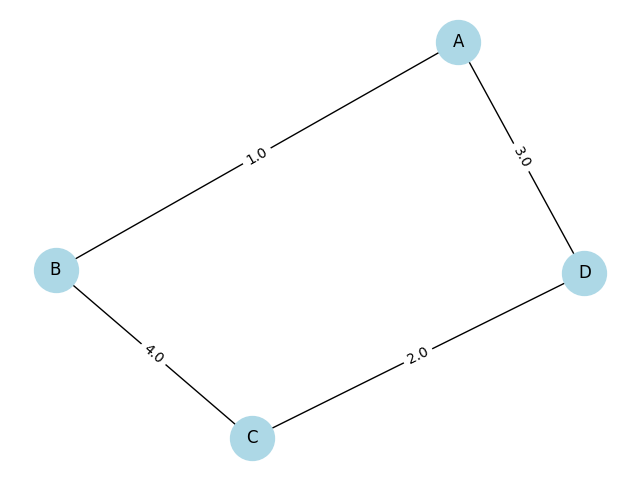
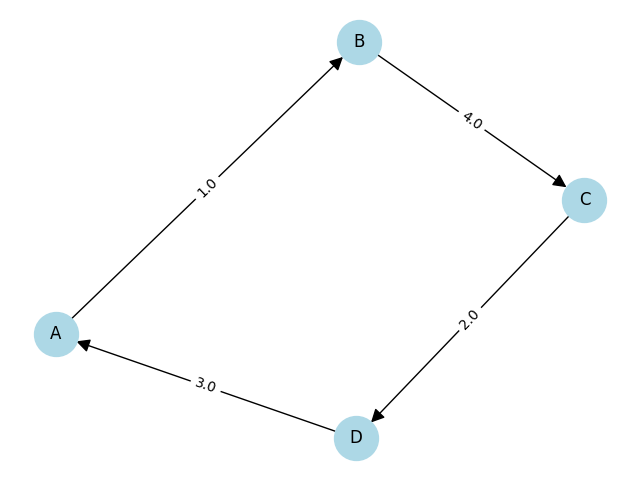
isso ai

diff --git a/codigobase.py b/codigobase.py
@@ -2,10 +2,11 @@ import networkx as nx
 import matplotlib.pyplot as plt
 import os
 
+
 def ler_grafo_arquivo(nome_arquivo):
     """
     Lê um arquivo de texto e cria um grafo/dígrafo (ponderado ou não).
-    
+
     Formato esperado:
     1ª linha: [G|D] [N|W]
         G = Grafo não direcionado
@@ -33,7 +34,7 @@ def ler_grafo_arquivo(nome_arquivo):
         else:
             raise ValueError("Primeiro caractere deve ser 'G' ou 'D'.")
 
-        ponderado = (peso == "W")
+        ponderado = peso == "W"
 
         # Leitura das arestas
         for linha in linhas[1:]:
@@ -45,13 +46,17 @@ def ler_grafo_arquivo(nome_arquivo):
                 adicionar_aresta(G, u, v, w, ponderado)
             else:
                 if len(partes) != 2:
-                    raise ValueError("Esperado formato 'u v' para grafos não ponderados.")
+                    raise ValueError(
+                        "Esperado formato 'u v' para grafos não ponderados."
+                    )
                 u, v = partes
                 adicionar_aresta(G, u, v, ponderado)  # peso padrão 1
 
-        print(f"Grafo criado ({'dígrafo' if tipo=='D' else 'grafo'}, "
-              f"{'ponderado' if ponderado else 'não ponderado'}) com "
-              f"{G.number_of_nodes()} vértices e {G.number_of_edges()} arestas.")
+        print(
+            f"Grafo criado ({'dígrafo' if tipo == 'D' else 'grafo'}, "
+            f"{'ponderado' if ponderado else 'não ponderado'}) com "
+            f"{G.number_of_nodes()} vértices e {G.number_of_edges()} arestas."
+        )
         return G, ponderado
 
     except FileNotFoundError:
@@ -81,24 +86,30 @@ def adicionar_aresta(G, u, v, w=1, ponderado=False):
 def visualizar_grafo(G, ponderado=False):
     """Desenha o grafo (ou dígrafo) com ou sem pesos."""
     pos = nx.spring_layout(G)
-    nx.draw(G, pos, with_labels=True, node_color='lightblue',
-            edge_color='black', node_size=1000, font_size=12,
-            arrows=isinstance(G, nx.DiGraph), arrowsize=20)
+    nx.draw(
+        G,
+        pos,
+        with_labels=True,
+        node_color="lightblue",
+        edge_color="black",
+        node_size=1000,
+        font_size=12,
+        arrows=isinstance(G, nx.DiGraph),
+        arrowsize=20,
+    )
 
     # Se for ponderado, mostrar pesos
     if ponderado:
-        labels = nx.get_edge_attributes(G, 'weight')
+        labels = nx.get_edge_attributes(G, "weight")
         nx.draw_networkx_edge_labels(G, pos, edge_labels=labels)
 
     plt.title("Visualização do Grafo")
     plt.savefig("visualizacao_grafo.png")
-    plt.close()
 
 
-
-def graph_to_adjacency_matrix(G: nx.Graph | nx.DiGraph ):
+def graph_to_adjacency_matrix(G: nx.Graph | nx.DiGraph):
     """Converte um grafo para sua matriz de adjacência."""
-    
+
     matrix = []
     nodes_list = list(G.nodes())
     number_of_nodes = len(nodes_list)
@@ -106,30 +117,41 @@ def graph_to_adjacency_matrix(G: nx.Graph | nx.DiGraph ):
         row = []
         for j in range(number_of_nodes):
             if G.has_edge(nodes_list[i], nodes_list[j]):
-                row.append(1)
+                row.append(get_edge_weight(G, (nodes_list[i], nodes_list[j])))
             else:
                 row.append(0)
         matrix.append(row)
     return matrix
 
-def graph_to_incidence_matrix(G: nx.Graph | nx.DiGraph):
+
+def graph_to_incidence_matrix(G):
+    """Converte um grafo para sua matriz de incidência."""
     edges_list = list(G.edges())
     nodes_list = list(G.nodes())
     matrix = []
-    for i, node in enumerate(nodes_list):
+
+    for node in nodes_list:
         row = []
-        for edge in edges_list:
-            if has_node_in_edge(edge, node):
-                value = get_edge_weight(G, edge)
-                if value is None:
-                    value = 1
-                row.append(value)
+        for u, v in edges_list:
+            if isinstance(G, nx.DiGraph):
+                if node == u:
+                    row.append(-1)
+                elif node == v:
+                    row.append(1)
+                else:
+                    row.append(0)
             else:
-                row.append(0)
+                if node == u or node == v:
+                    row.append(1)
+                else:
+                    row.append(0)
         matrix.append(row)
+
     return matrix
 
+
 def graph_to_adjacent_list(G: nx.Graph | nx.DiGraph):
+    """Converte um grafo para sua lista de adjacências."""
     adj = {}
     nodes_list = list(G.nodes())
     for node in nodes_list:
@@ -142,23 +164,35 @@ def graph_to_adjacent_list(G: nx.Graph | nx.DiGraph):
 
     return adj
 
+
 def has_node_in_edge(edges, node):
     """Verifica se um nó está presente em alguma aresta do grafo."""
     return node in edges
-    
-def get_edge_wheight(G, edges):
-    """Retorna o peso da aresta, se existir."""
-    u, v = edges
-    if G.has_edge(u, v):
-        return G[u][v].get('weight', 1) 
-    return 1
+
 
 def get_edge_weight(G, edges):
     """Retorna o peso da aresta, se existir. Nome corrigido."""
     u, v = edges
     if G.has_edge(u, v):
-        return G[u][v].get('weight', 1)
+        return G[u][v].get("weight", 1)
     return 1
+
+
+def print_matrix(matrix):
+    """Imprime uma matriz de forma legível."""
+    if isinstance(matrix, dict):
+        for key, value in matrix.items():
+            print(f"{key}: {value}")
+        return
+
+    for row in matrix:
+        print("|", end="")
+        for column in row:
+            print(column, end="\t")
+
+        print("|")
+
+
 # -------------------------------
 # Exemplo de uso do programa
 # -------------------------------
@@ -176,14 +210,18 @@ if __name__ == "__main__":
         exit(1)
 
     # Adicionar vértice manualmente
-#    adicionar_vertice(G, "E")
+    #    adicionar_vertice(G, "E")
 
     # Adicionar aresta manualmente
-#    adicionar_aresta(G, "E", "A")
+    #    adicionar_aresta(G, "E", "A")
 
     # Visualizar grafo
     visualizar_grafo(G, ponderado)
     print("Matriz de Adjacência:")
-    graph = graph_to_adjacent_list(G)
-    print(graph)
-    
+    print_matrix(graph_to_adjacency_matrix(G))
+
+    print("Matriz de Incidência:")
+    print_matrix(graph_to_incidence_matrix(G))
+
+    print("Lista de Adjacências:")
+    print_matrix(graph_to_adjacent_list(G))
